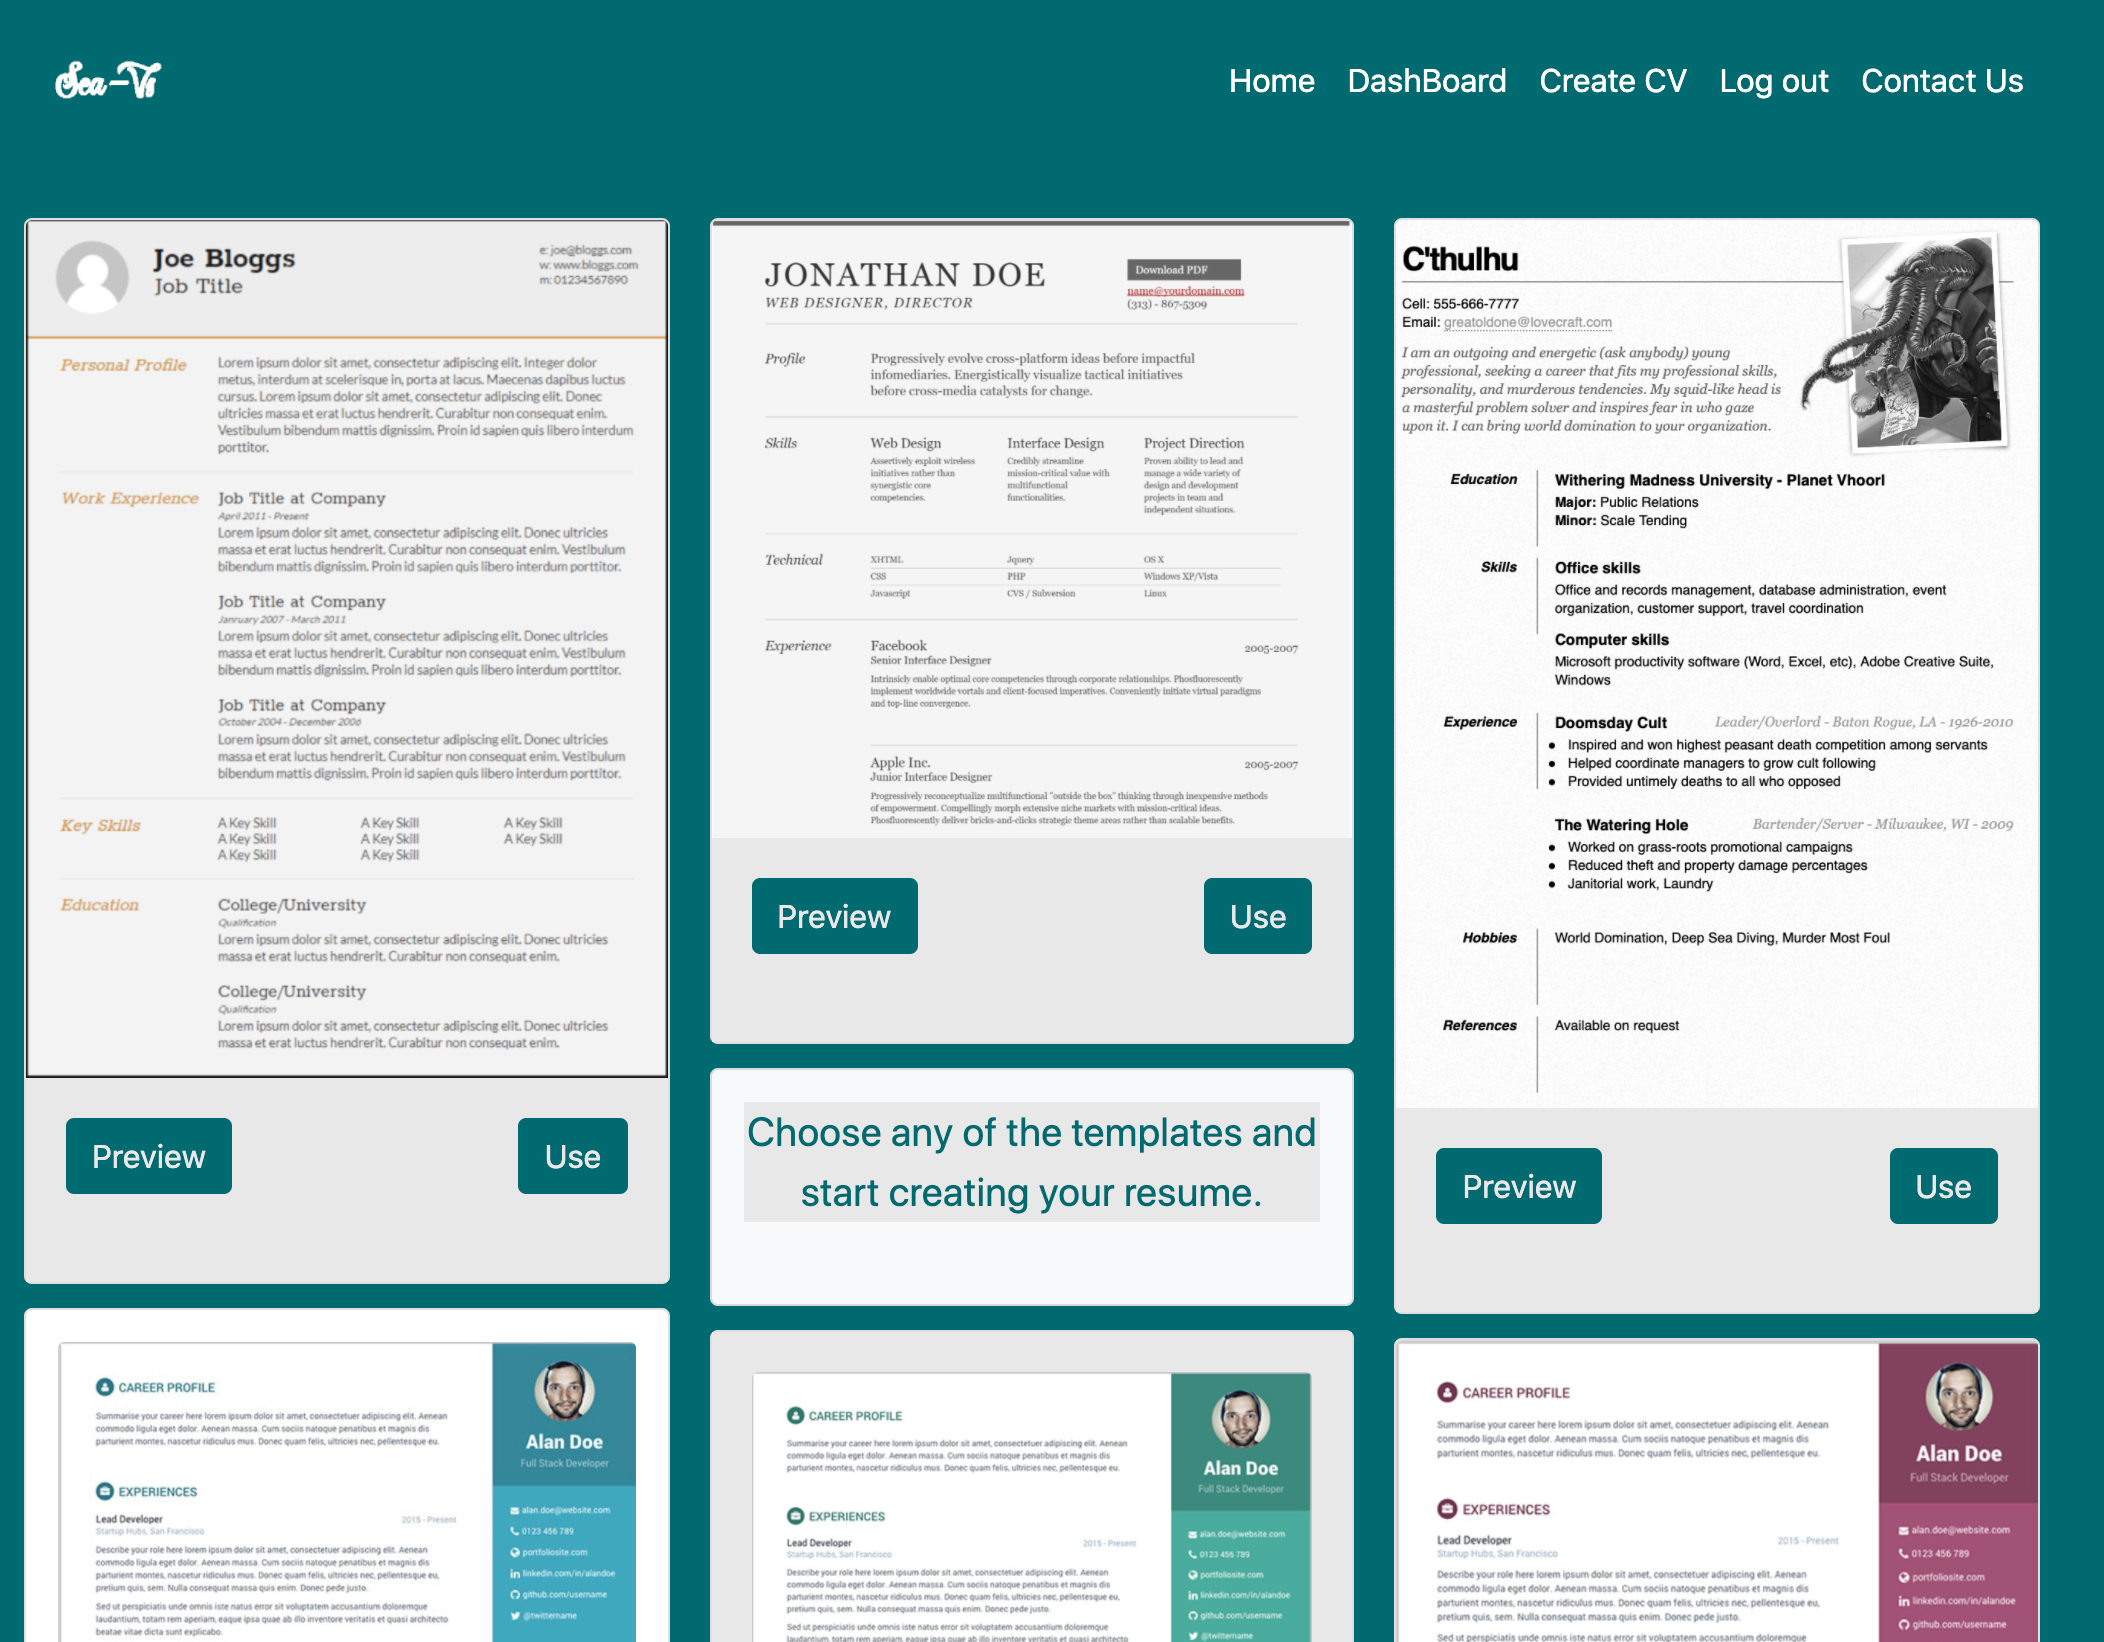
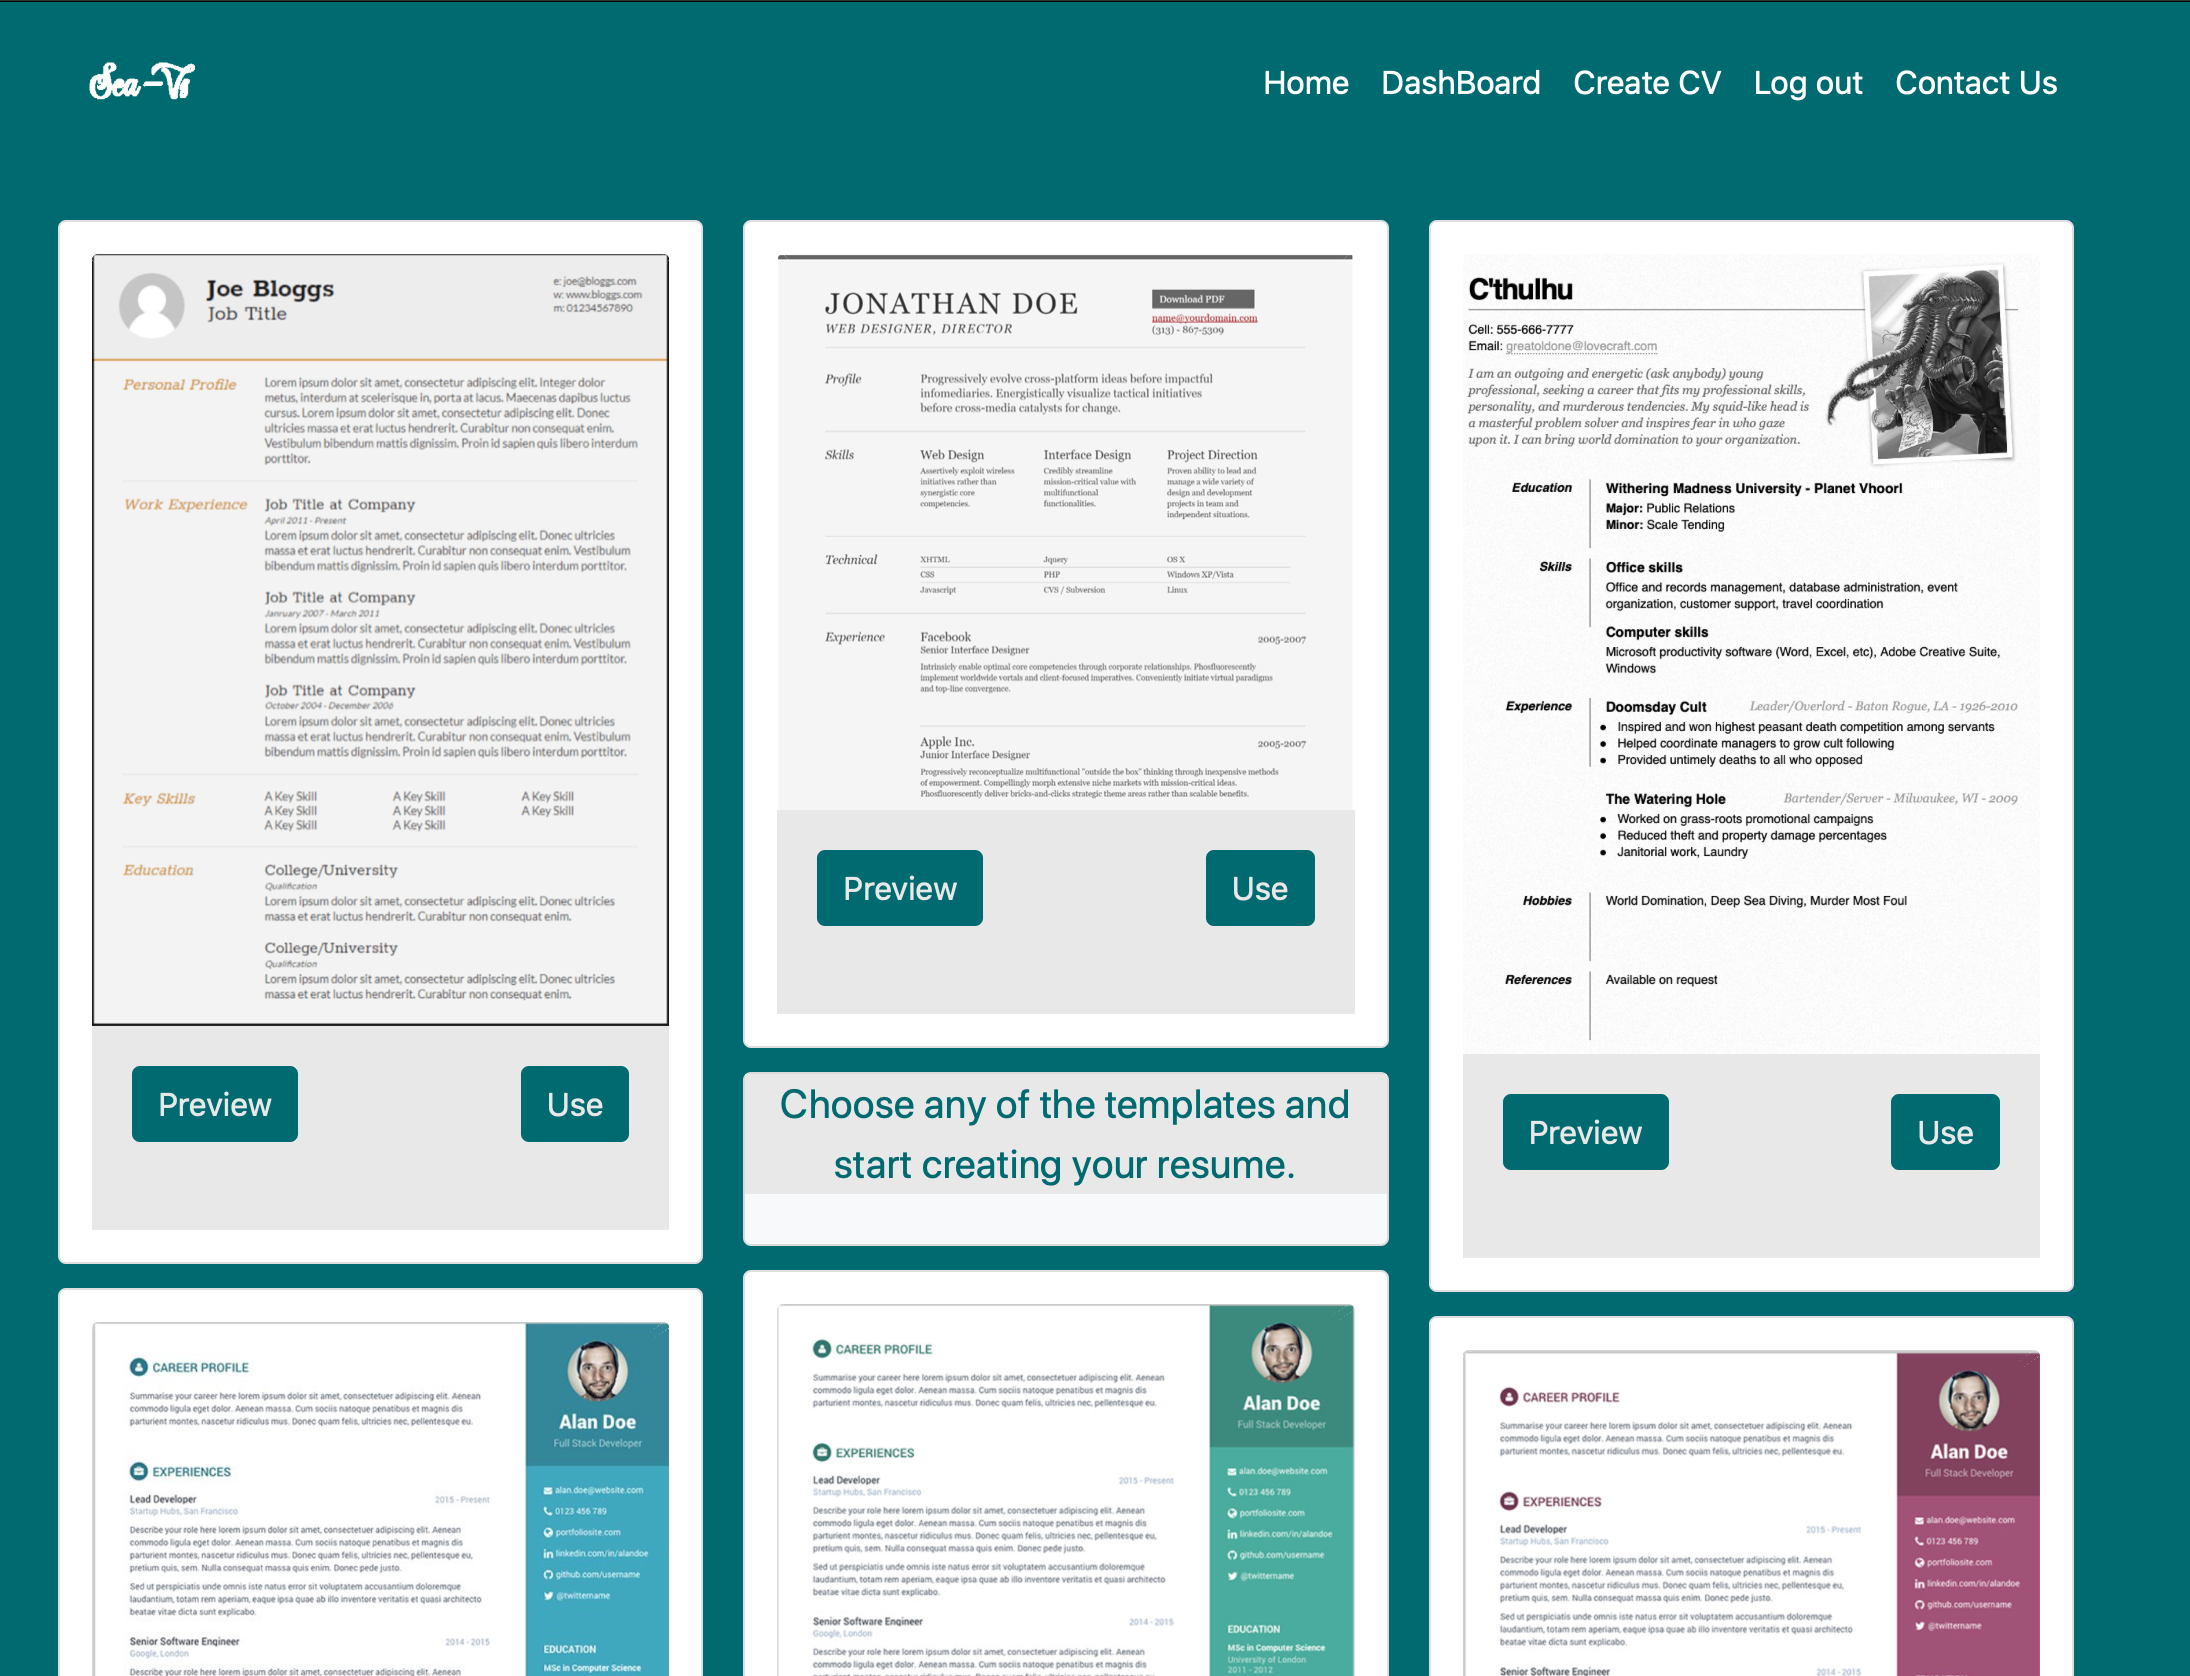
Added preview

diff --git a/addcv/templates/resumes/templist.html b/addcv/templates/resumes/templist.html
@@ -3,54 +3,54 @@
 {% block content %}
 <div class="container-fluid ">
   <div class="card-columns">
-    <div class="card">
+    <div class="card p-3">
       <img src="{% static 'resume 2.png'%}" class="card-img-top" alt="..." width="200px">
       <div class="card-body">
-        <a href="#" class="btn btn-md templatebutton mr-4">Preview</a>
+        <a href="{% url 'preview' person_id 2%}" class="btn btn-md templatebutton mr-4">Preview</a>
         <a href="{%  url 'mycv' person_id 2 %}" class="btn btn-md templatebutton" style="float:right">Use</a><br><br>      </div>
     </div>
     <div class="card p-3">
       <img src="{% static 'resume 3.png'%}" class="card-img-top" alt="..." width="200px">
       <div class="card-body">
-      <a href="#" class="btn btn-md templatebutton mr-4">Preview</a>
+      <a href="{% url 'preview' person_id 3%}" class="btn btn-md templatebutton mr-4">Preview</a>
       <a href="{%  url 'mycv' person_id 3 %}" class="btn btn-md templatebutton" style="float:right">Use</a><br><br>
       </div>
     </div>
-    <div class="card">
+    <div class="card p-3">
       <img src="{% static 'resume 1.png'%}" class="card-img-top" alt="..." width="200px">
       <div class="card-body">
-        <a href="#" class="btn btn-md templatebutton mr-4">Preview</a>
+        <a href="{% url 'preview' person_id 1%}" class="btn btn-md templatebutton mr-4">Preview</a>
         <a href="{%  url 'mycv' person_id 1 %}" class="btn btn-md templatebutton" style="float:right">Use</a><br><br>
 
       </div>
     </div>
-    <div class="card bg-light  text-center p-3">
-      <blockquote class="blockquote mb-0">
+    <div class="card bg-light  text-center">
+      <blockquote class="blockquote ">
         <p class="button">Choose any of the templates and start creating your resume.</p>
 
       </blockquote>
     </div>
-    <div class="card text-center">
-      <div class="card-body">
+    <div class="card p-3">
+
         <img src="{% static 'resume 5.png'%}" class="card-img-top" alt="..." width="200px">
-        <h5 class="card-title">Card title</h5>
-        <a href="#" class="btn btn-md templatebutton mr-4">Preview</a>
+      <div class="card-body">
+        <a href="{% url 'preview' person_id 5 %}" class="btn btn-md templatebutton mr-4">Preview</a>
         <a href="{%  url 'mycv' person_id 5 %}" class="btn btn-md templatebutton" style="float:right">Use</a><br><br>
       </div>
     </div>
-    <div class="card">
+    <div class="card p-3">
       <img src="{% static 'resume 4.png'%}" class="card-img-top" alt="..." width="200px">
       <div class="card-body">
-      <a href="#" class="btn btn-md templatebutton mr-4">Preview</a>
+      <a href="{% url 'preview' person_id 4 %}" class="btn btn-md templatebutton mr-4">Preview</a>
       <a href="{%  url 'mycv' person_id 4 %}" class="btn btn-md templatebutton" style="float:right">Use</a><br><br>
       </div>
     </div>
 
-    <div class="card">
+    <div class="card p-3">
 
         <img src="{% static 'resume 6.png'%}" class="card-img-top" alt="..." width="200px">
         <div class="card-body">
-        <a href="#" class="btn btn-md templatebutton mr-4">Preview</a>
+        <a href="{% url 'preview' person_id 6 %}" class="btn btn-md templatebutton mr-4">Preview</a>
         <a href="{%  url 'mycv' person_id 6 %}" class="btn btn-md templatebutton" style="float:right">Use</a><br><br>
         </div>
 

diff --git a/addcv/templates/addcv/preview.html b/addcv/templates/addcv/preview.html
@@ -1,0 +1,25 @@
+{% extends 'seavs/base.html' %}
+{% load static %}
+
+{% block content %}
+<div class="container-fluid">
+  {% ifequal id 1 %}
+  <img src="{% static 'resume 1.png' %}" alt="" width="1000px" width="1000px">
+  {% endifequal %}
+  {% ifequal id 2 %}
+  <img src="{% static 'resume 2.png' %}" alt="" width="1000px" width="1000px">
+  {% endifequal %}
+  {% ifequal id 3 %}
+  <img src="{% static 'resume 3.png' %}" alt="" width="1000px" width="1000px">
+  {% endifequal %}
+  {% ifequal id 4 %}
+  <img src="{% static 'resume 4.png' %}" alt="" width="1000px" width="1000px">
+  {% endifequal %}
+  {% ifequal id 5 %}
+  <img src="{% static 'resume 5.png' %}" alt="" width="1000px" width="1000px">
+  {% endifequal %}
+  {% ifequal id 6 %}
+  <img src="{% static 'resume 6.png' %}" alt="" width="1000px" width="1000px">
+  {% endifequal %}
+</div>
+{% endblock content%}

diff --git a/addcv/views.py b/addcv/views.py
@@ -366,3 +366,18 @@ def export_pdf(request, person_id):
 
 
     return response
+
+def preview (request, person_id, my_id):
+    if my_id == 1:
+        print(my_id)
+        return render(request, 'addcv/preview.html',{'id':1})
+    if my_id == 2:
+        return render(request, 'addcv/preview.html',{'id':2})
+    if my_id == 3:
+        return render(request, 'addcv/preview.html',{'id':3})
+    if my_id == 4:
+        return render(request, 'addcv/preview.html',{'id':4})
+    if my_id == 5:
+        return render(request, 'addcv/preview.html',{'id':5})
+    if my_id == 6:
+        return render(request, 'addcv/preview.html',{'id':6})

diff --git a/addcv/urls.py b/addcv/urls.py
@@ -33,4 +33,5 @@ urlpatterns = [
      path('templist', views.templist, name='templist'),
      path('mycv/<int:person_id>/<int:my_id>', views.mycv, name='mycv'),
      path('export-pdf/<int:person_id>/', views.export_pdf, name='export-pdf'),
+     path('preview/<int:person_id>/<int:my_id>', views.preview, name='preview'),
  ]
